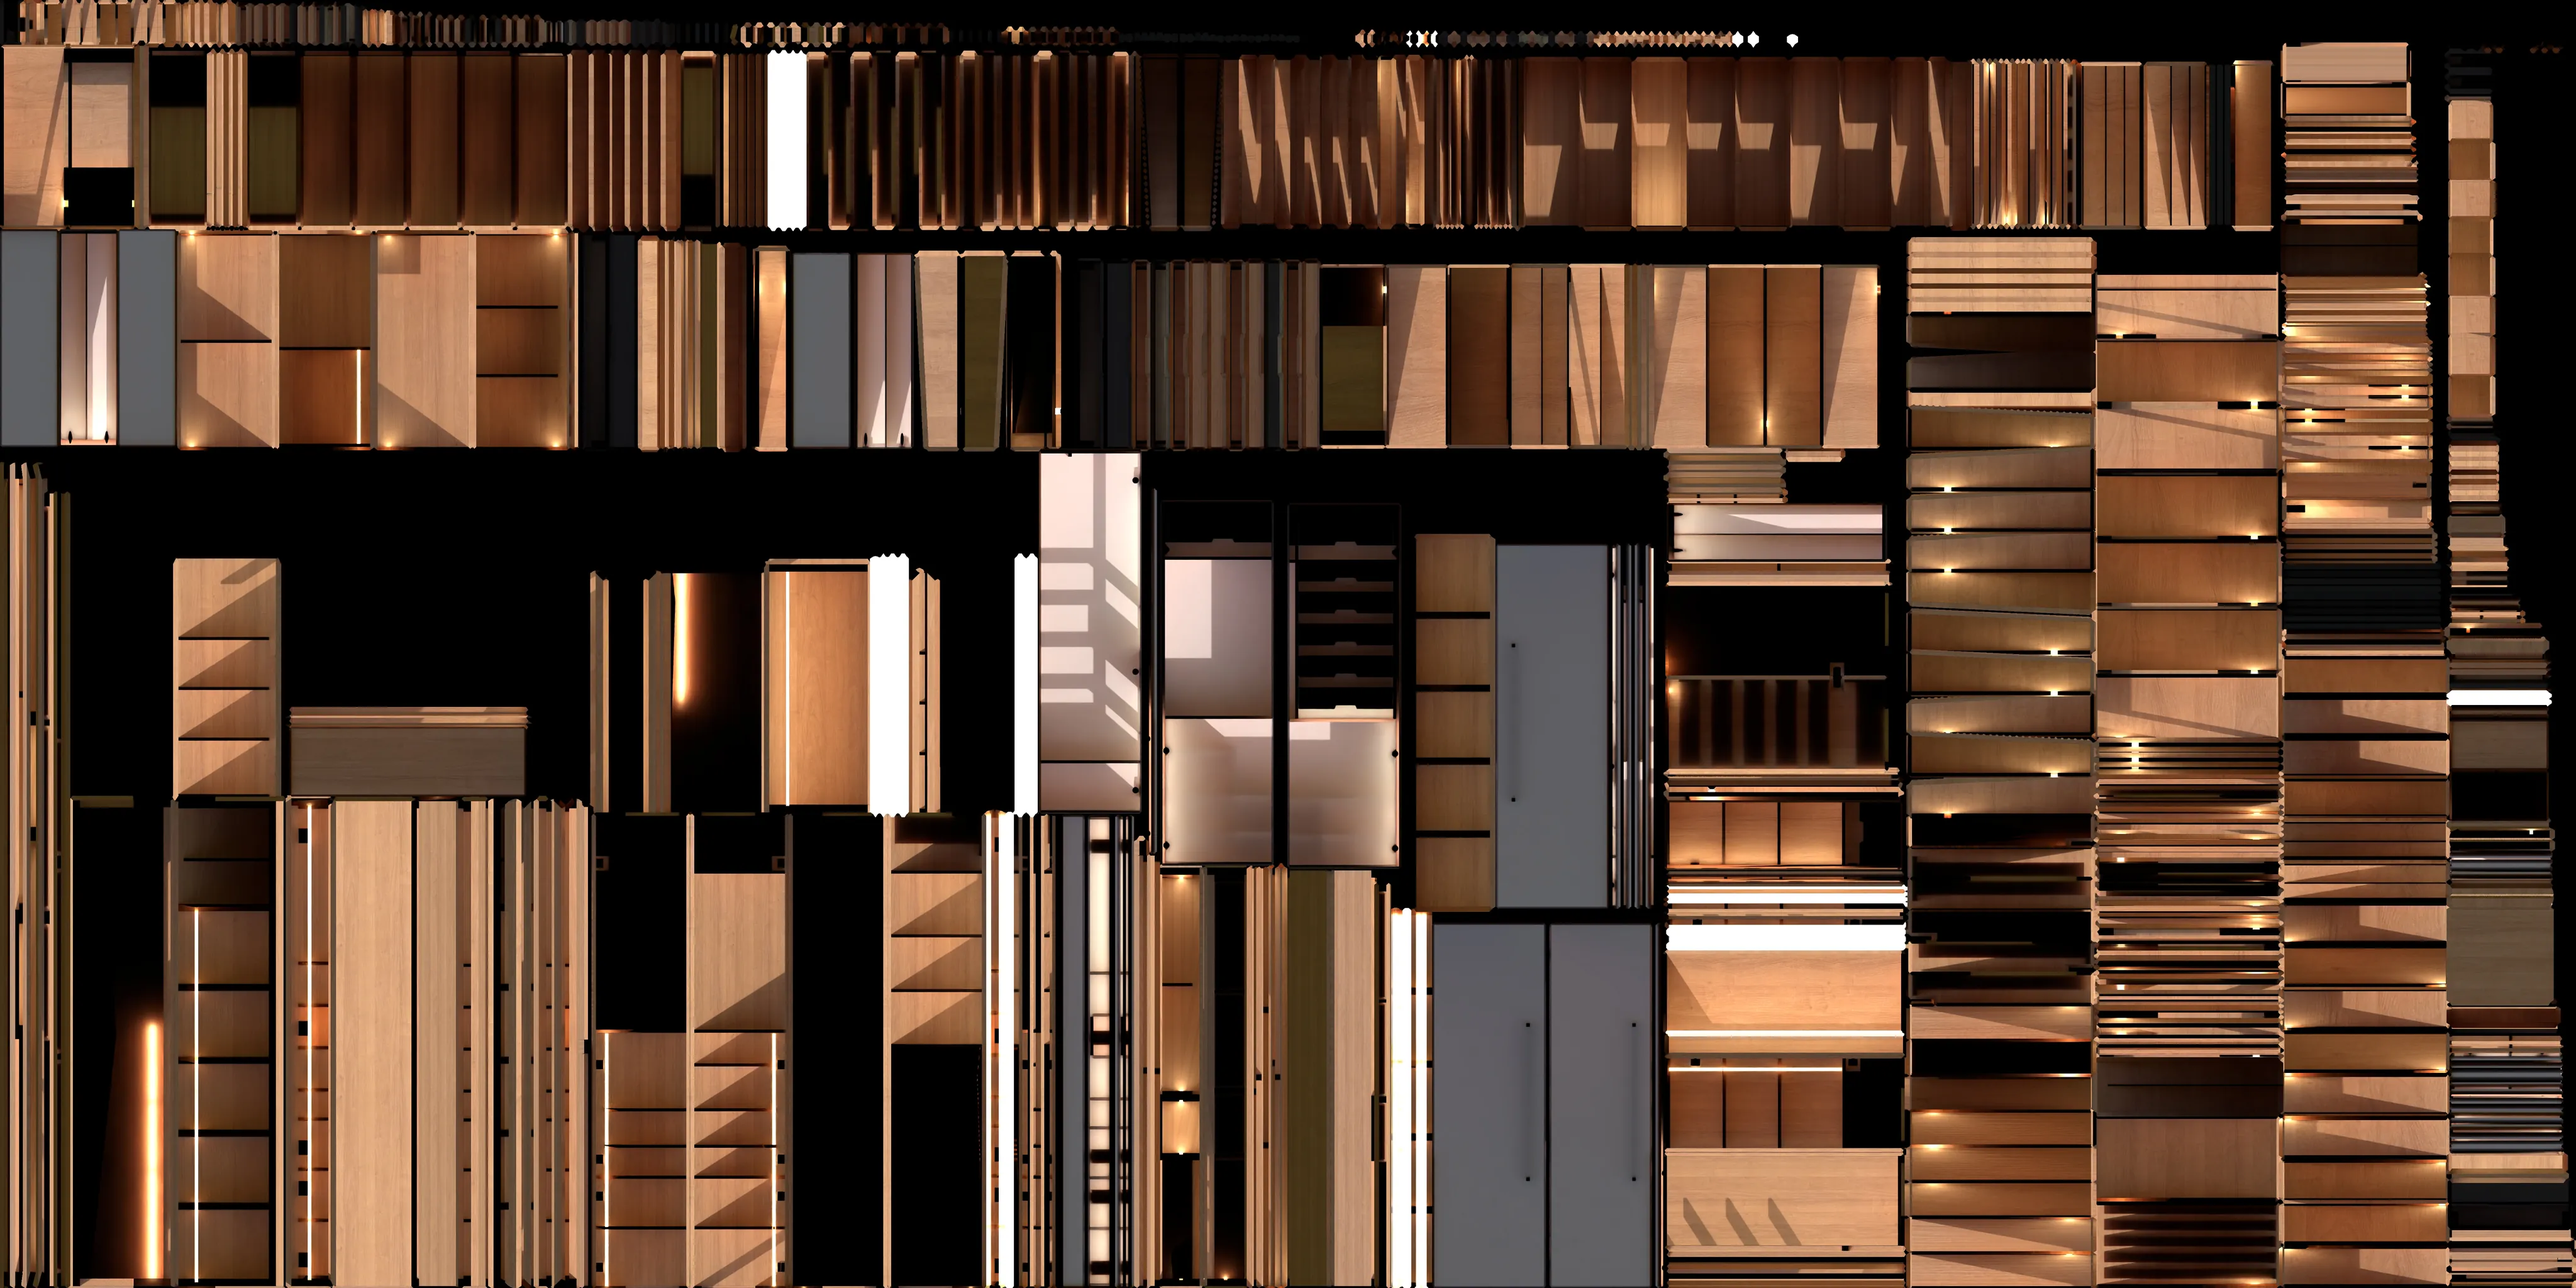
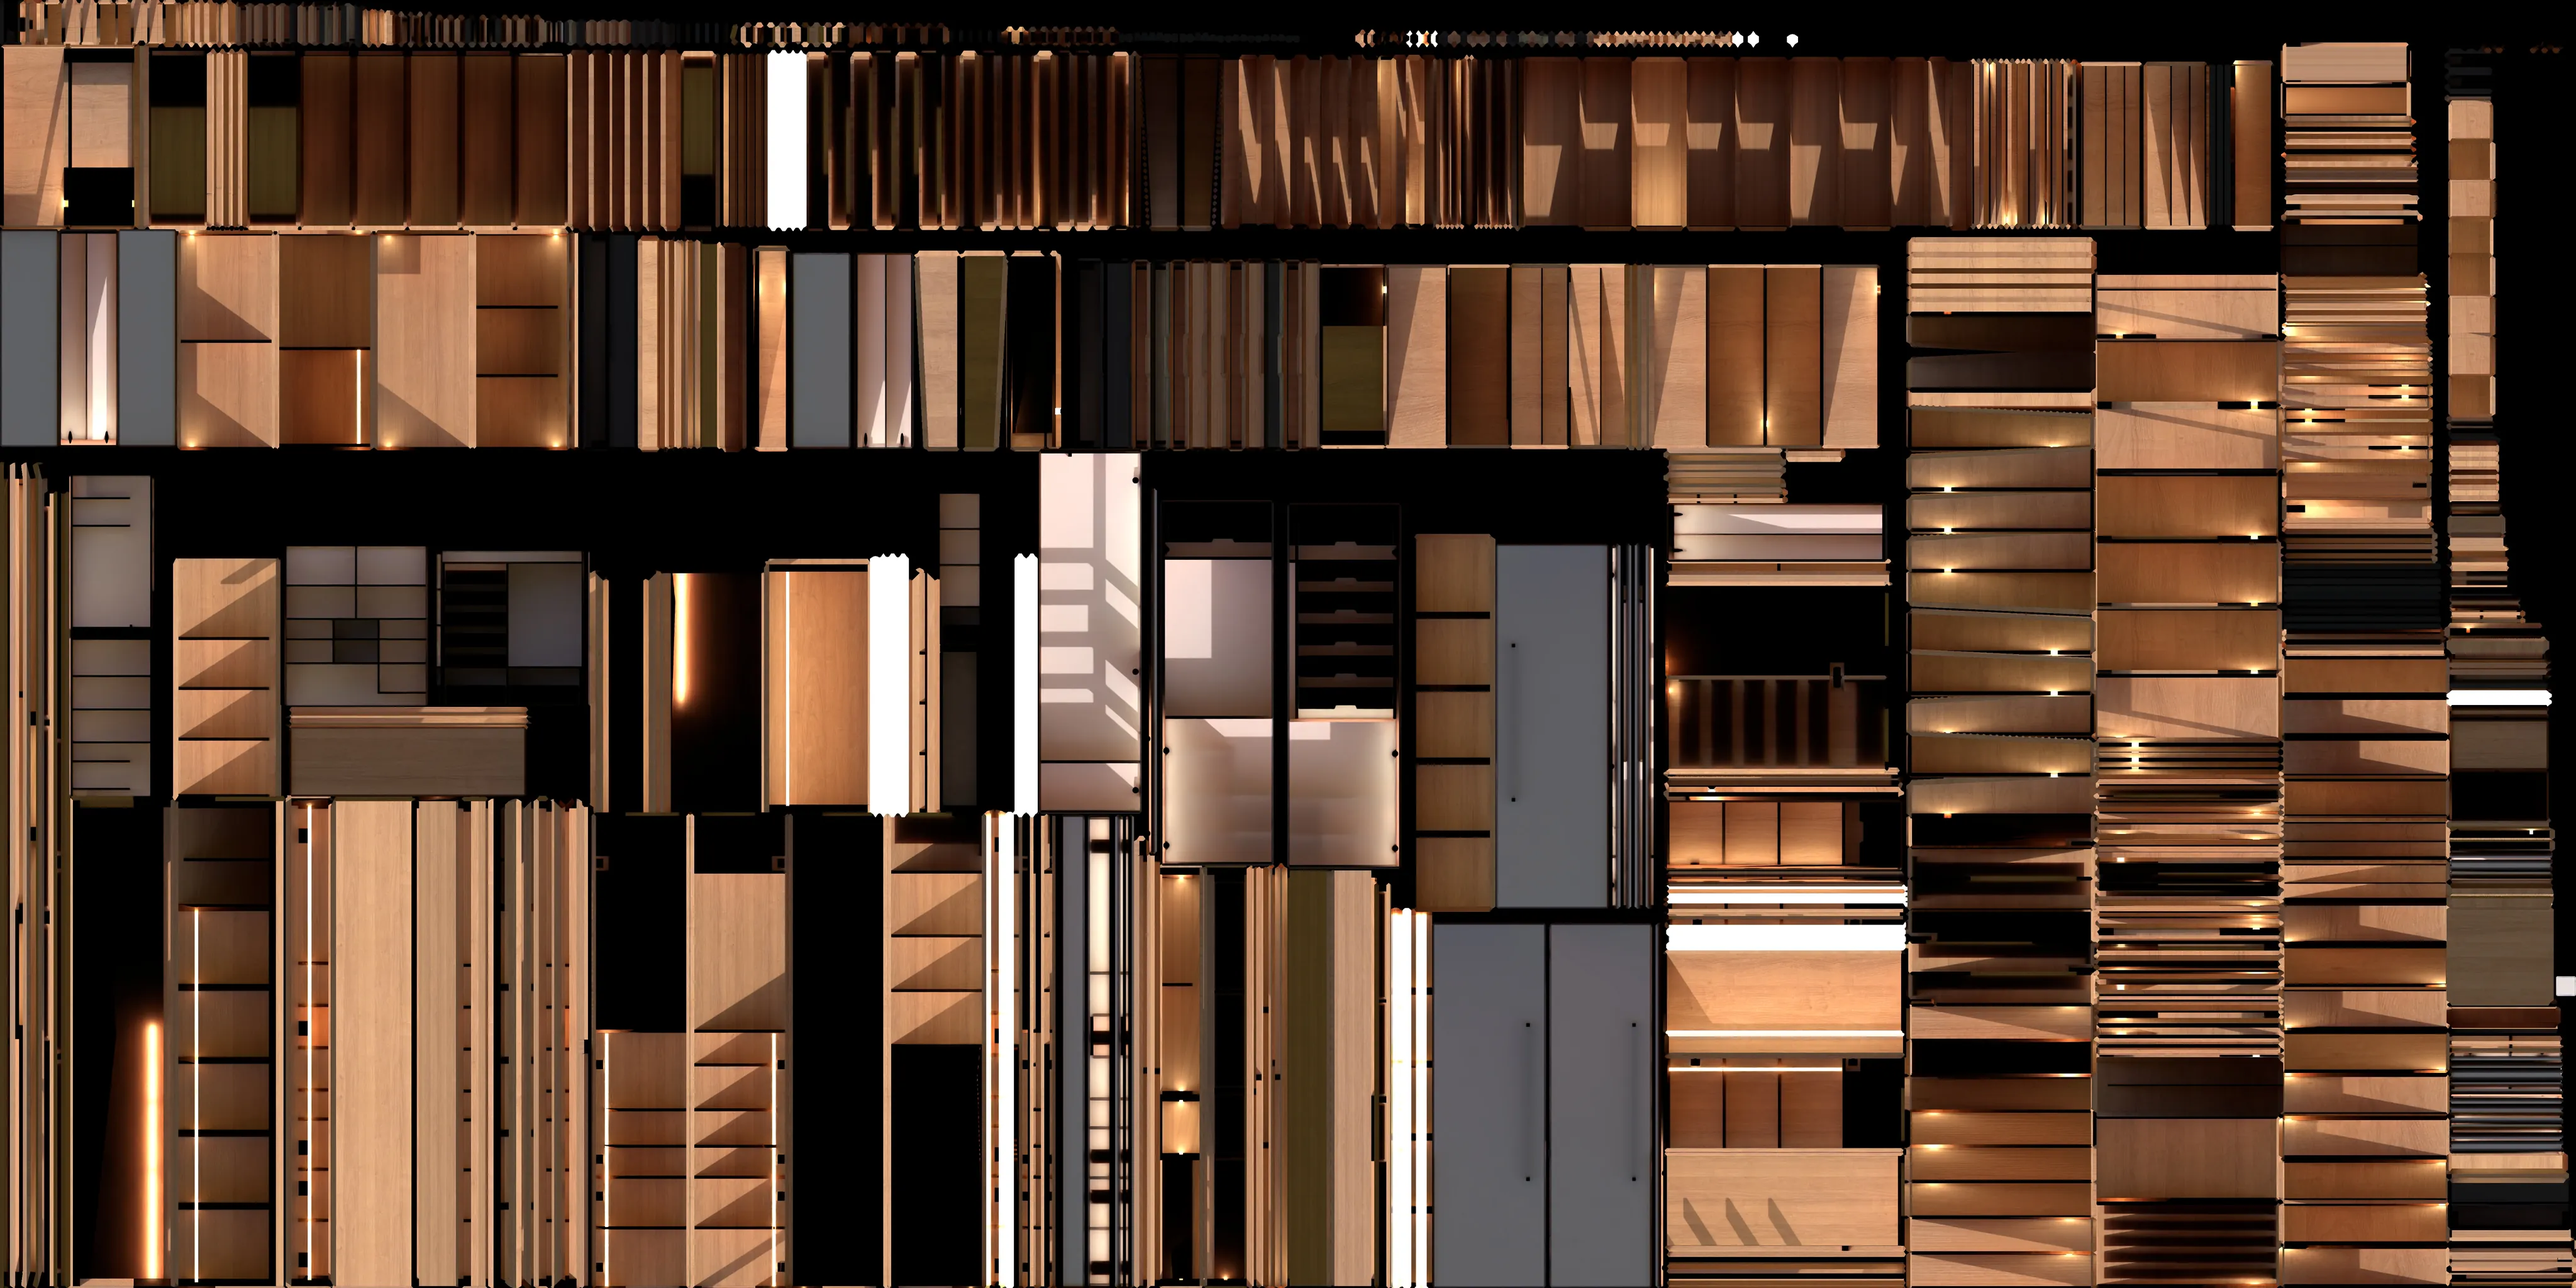
feat: add the wardrobe back panel to the model and atlas
Unused_BackPanel is baked into free atlas space and exported in Wardrobe.glb. It is the back kind again: it slides back in the breakdown, has no measure lines and stays out of the front plan view.

diff --git a/app/components/Mesh.tsx b/app/components/Mesh.tsx
@@ -12,6 +12,8 @@ export function Mesh(props: ThreeElements['mesh']) {
   const wireframeGroup = useRef<THREE.Group>(null!);
   const [hovered, setHovered] = useState(false);
 
+  const hideLines = props.name?.endsWith('BackPanel');
+
   const getColor = (hover = false) => {
     const isWood = /^(DR|P\d\d)_/.test(props.name ?? '');
     if (hover) return isWood ? '#d2b98a' : '#bbb';
@@ -65,6 +67,8 @@ export function Mesh(props: ThreeElements['mesh']) {
     const position = edgesGeometry.attributes.position;
     const lines: LineData[] = [];
 
+    if (hideLines) return null;
+
     for (let i = 0, l = position.count; i < l; i += 2) {
       const from = vec.fromBufferAttribute(position, i).clone();
       const to = vec.fromBufferAttribute(position, i + 1).clone();
@@ -90,7 +94,7 @@ export function Mesh(props: ThreeElements['mesh']) {
     // eslint-disable-next-line react-hooks/exhaustive-deps
   }, [edgesGeometry]);
 
-  const edges = (
+  const edges = lines && (
     <Line
       segments
       matrixAutoUpdate={false}
@@ -140,7 +144,7 @@ export function Mesh(props: ThreeElements['mesh']) {
         {props.children}
         <Edges
           renderOrder={2}
-          visible={wireframe && visible}
+          visible={wireframe && visible && !hideLines}
           linewidth={1}
           threshold={0.27}
           color="#666"

diff --git a/app/components/WardrobeShowcase.tsx b/app/components/WardrobeShowcase.tsx
@@ -18,6 +18,7 @@ const FLAT: Record<Kind, string> = {
   shelf: '#e0cfae',
   aShelf: '#e0cfae',
   aSide: '#d4bf9a',
+  back: '#2e2a26',
   frame: '#c8a473',
 };
 
@@ -30,6 +31,7 @@ const ALPHA: Record<Kind, number[]> = {
   support: [1, 1, 1, 0, 0, 1],
   aShelf: [1, 1, 1, 0, 0, 1],
   aSide: [1, 1, 1, 0, 0, 1],
+  back: [1, 1, 1, 0, 0, 1],
   led: [1, 1, 1, 1, 0, 1],
   frame: [1, 1, 1, 1, 1, 1],
 };
@@ -59,6 +61,8 @@ function keyframes(kind: Kind, c: THREE.Vector3): THREE.Vector3[] {
       return out(v(-0.22, 0, -0.18), 2);
     case 'aSide':
       return out(v(0, 0, -0.4), 2);
+    case 'back':
+      return out(v(0.35), 2);
     case 'led':
       return [zero, zero, v(-0.06), zero, zero, zero];
     case 'frame': {

diff --git a/app/components/Wardrobe.tsx b/app/components/Wardrobe.tsx
@@ -8,10 +8,11 @@ import { Measurable } from './Measurable';
 import { useApp } from '@/contexts/AppContext';
 import { FRAME_GLB, FRAME_PIECES, WARDROBE_GLB } from '@/assets';
 
-export type Kind = 'front' | 'handle' | 'led' | 'drawer' | 'support' | 'shelf' | 'aShelf' | 'aSide' | 'frame';
+export type Kind = 'front' | 'handle' | 'led' | 'drawer' | 'support' | 'shelf' | 'aShelf' | 'aSide' | 'back' | 'frame';
 
 // Part kind from its Szafa4.blend object name
 export const kindOf = (name: string): Kind => {
+  if (name.endsWith('BackPanel')) return 'back';
   if (name.startsWith('LED_')) return 'led';
   if (name.endsWith('_Handle')) return 'handle';
   if (/^F\d\d_/.test(name)) return 'front';

diff --git a/app/components/PlanDrawing.tsx b/app/components/PlanDrawing.tsx
@@ -37,7 +37,7 @@ export function PlanDrawing({ view }: { view: PlanView }) {
   const frame = useGLTF(FRAME_GLB);
 
   const data = useMemo(() => {
-    const parts = [...boxes(wardrobe.scene), ...boxes(frame.scene, FRAME_PIECES)];
+    const parts = [...boxes(wardrobe.scene).filter(b => kindOf(b.name) !== 'back'), ...boxes(frame.scene, FRAME_PIECES)];
     // Boards first so the pieces are drawn on top of them
     const plan = boxes(frame.scene, [...FRAME_BOARDS, ...FRAME_PIECES.map(flatPiece)]).sort(
       (a, b) => Number(isBoard(b.name)) - Number(isBoard(a.name)),
